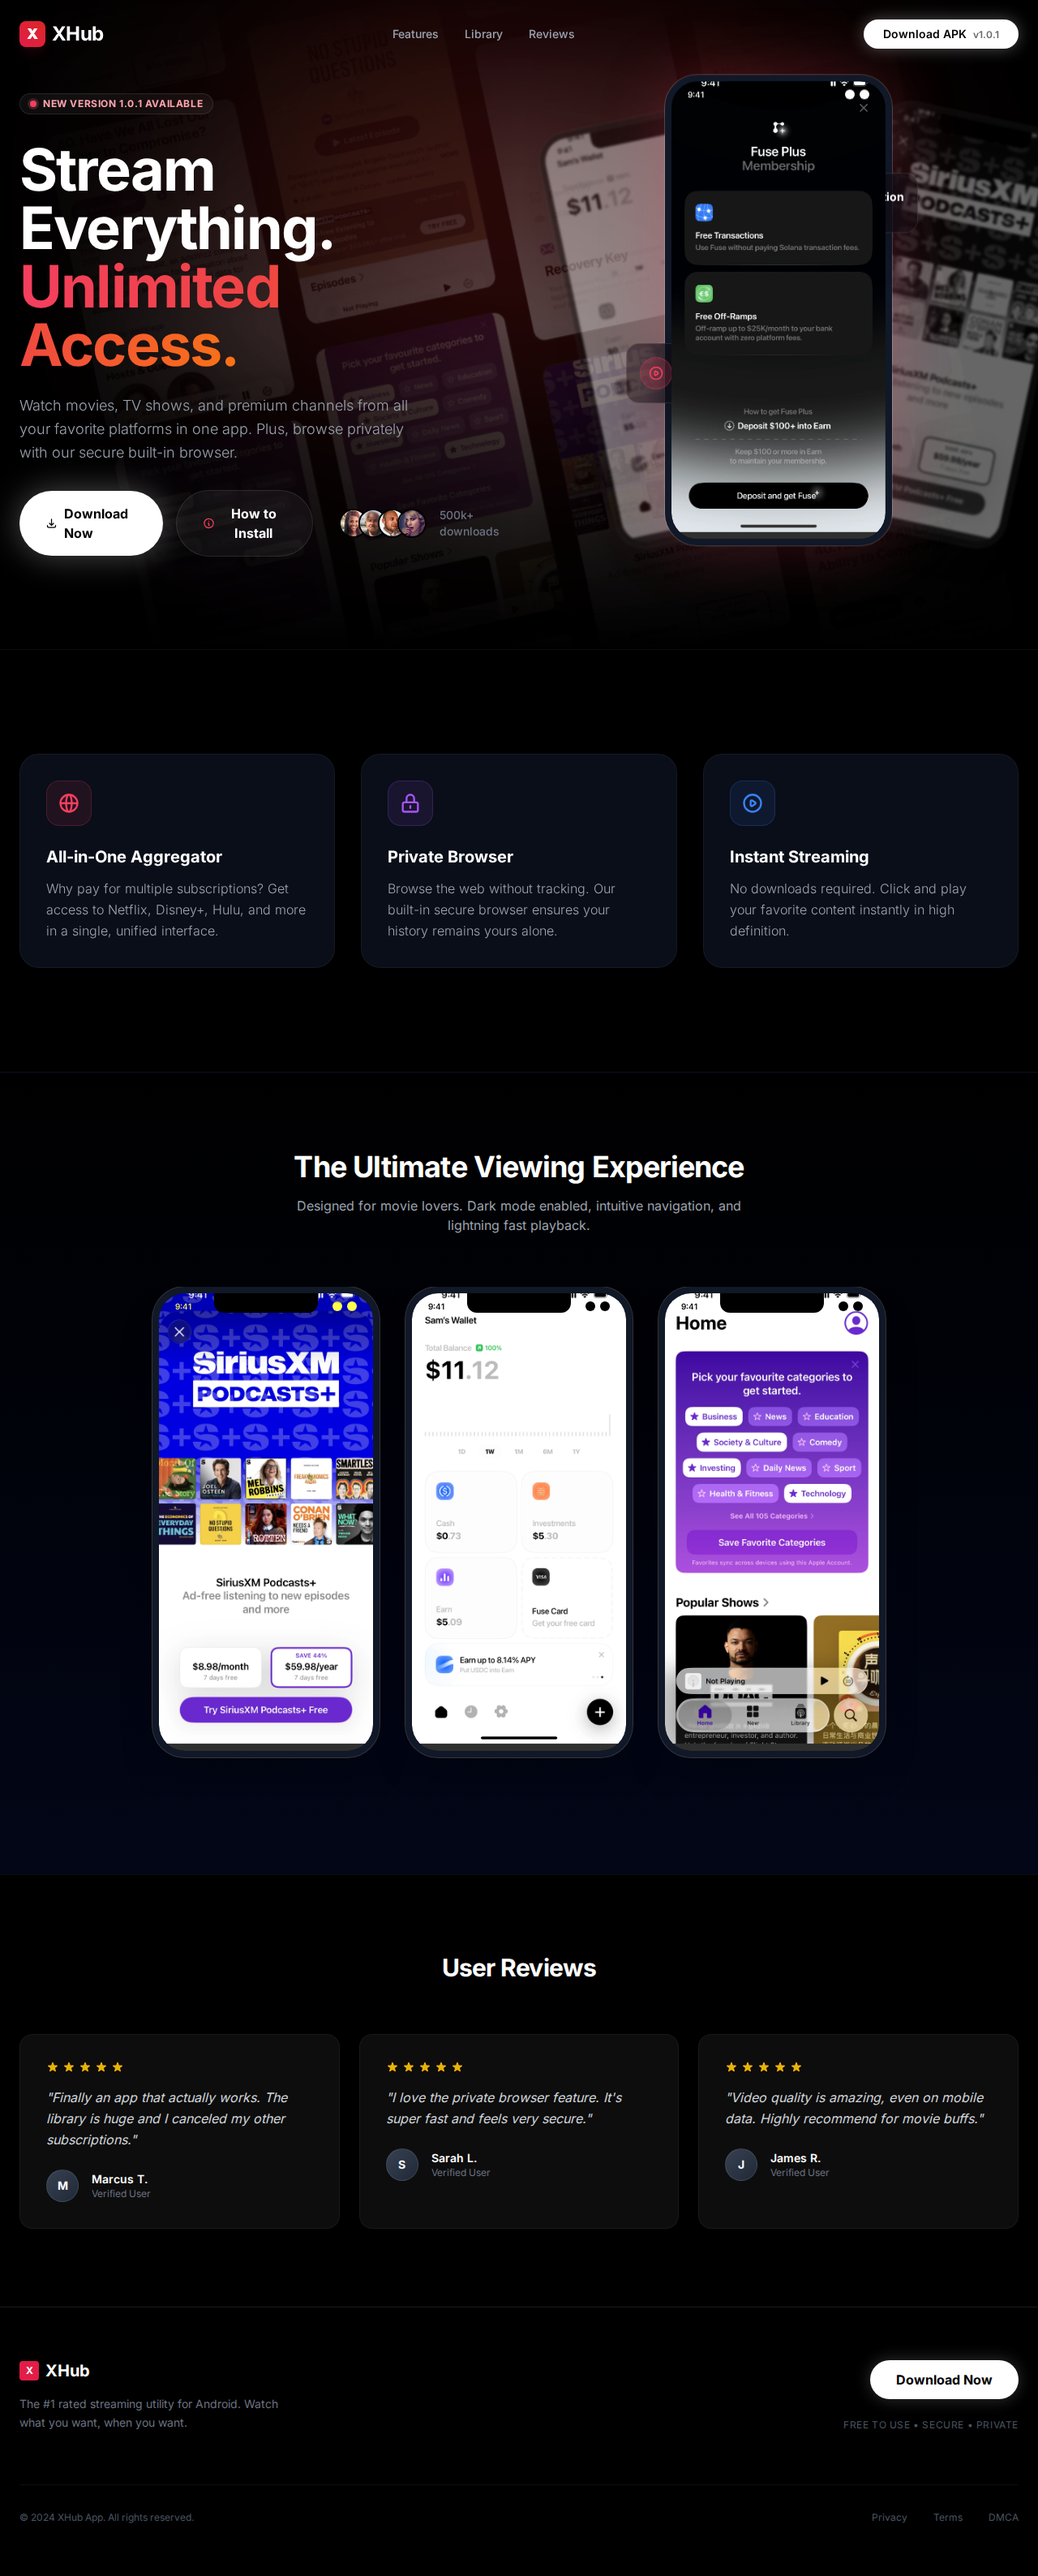
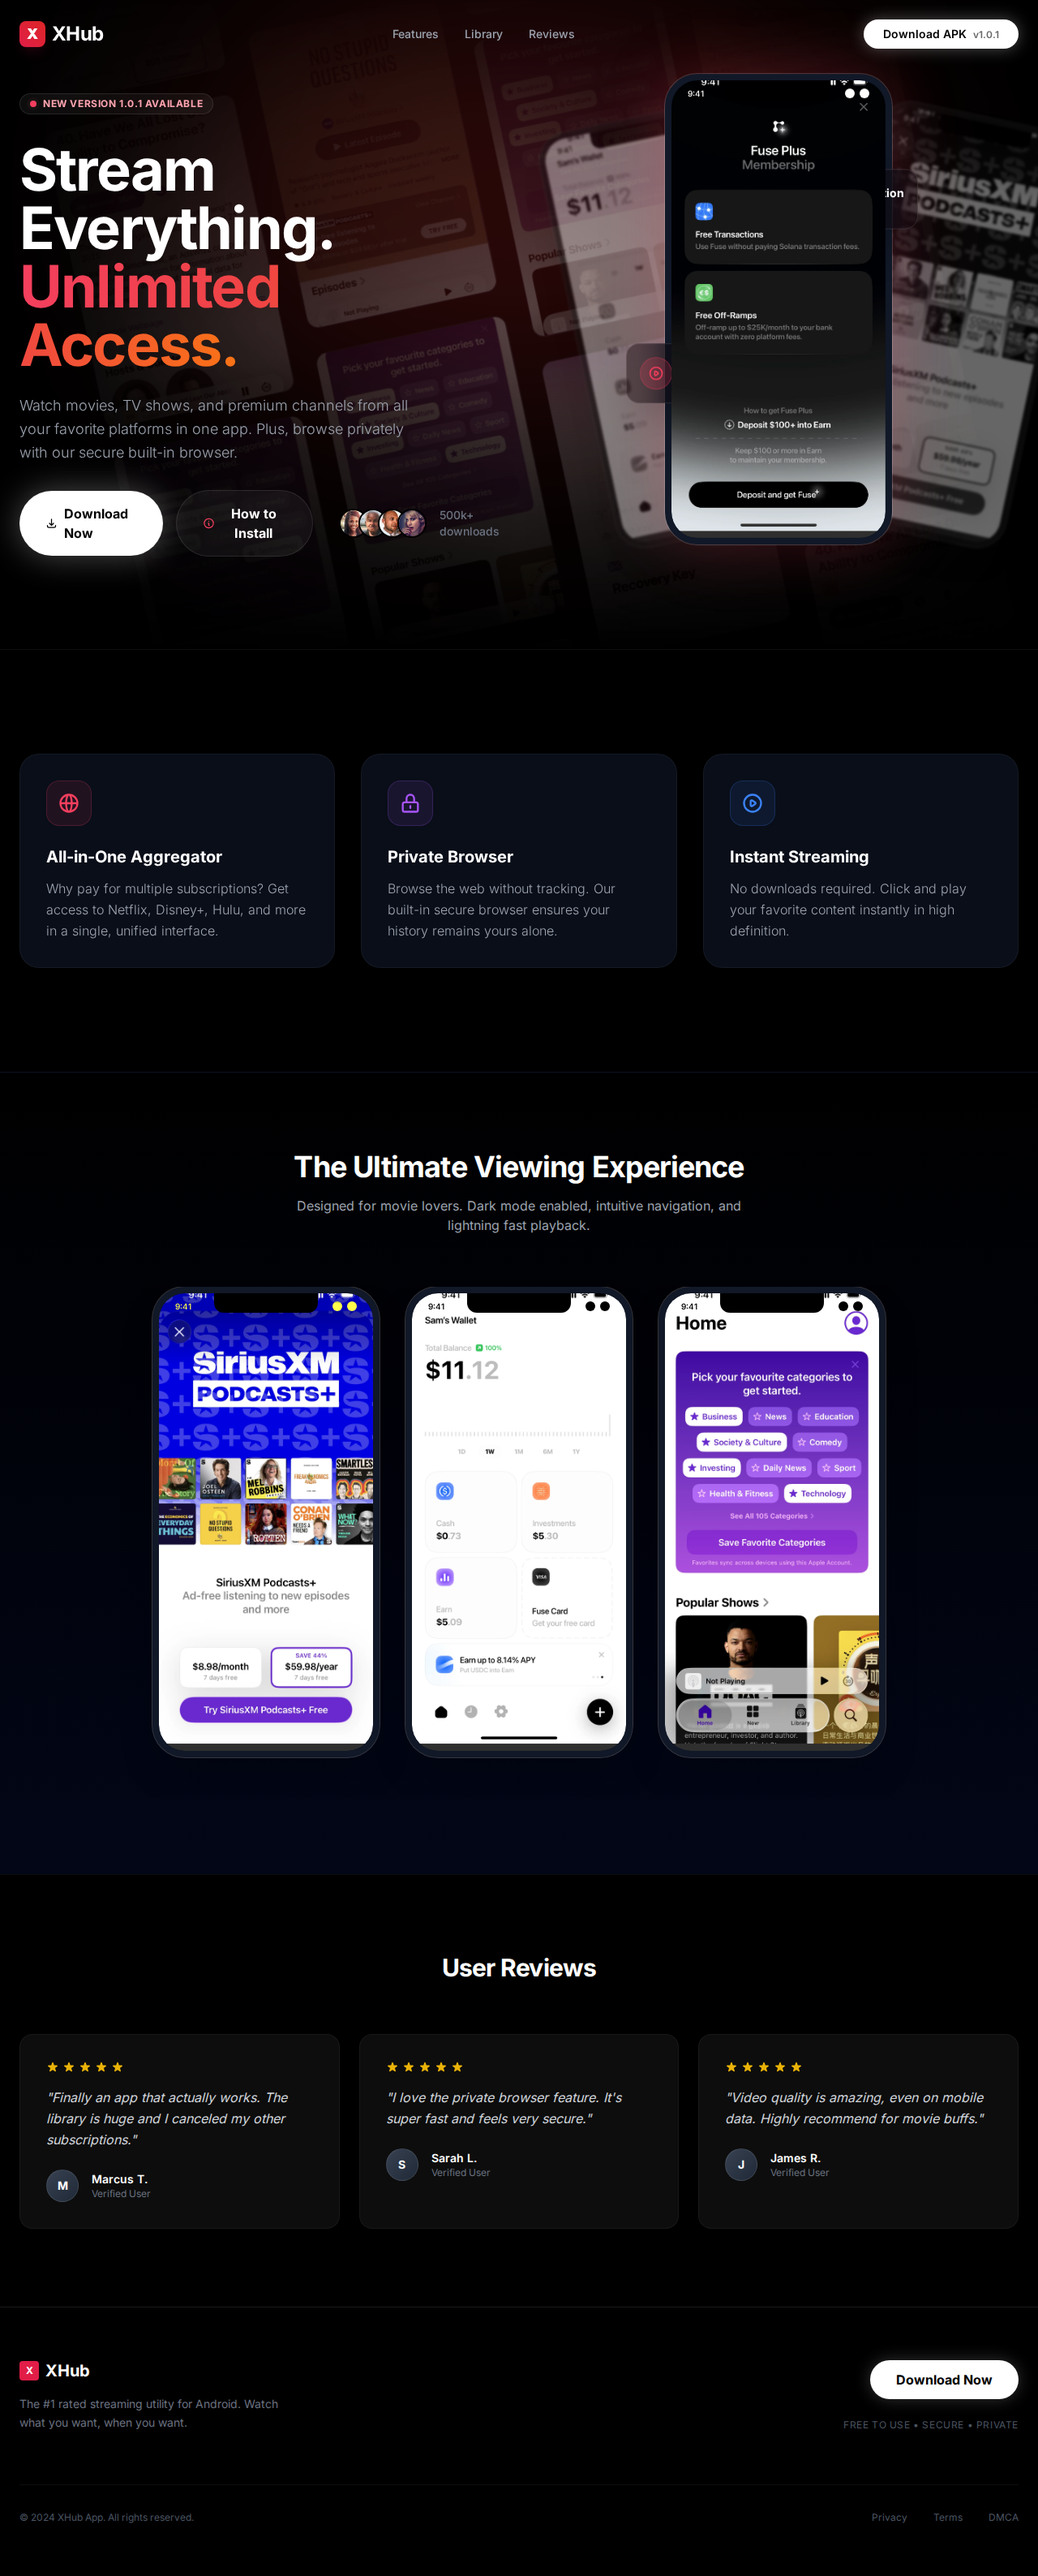
🎨 Palette: UI/UX & Performance Improvements
💡 What:
- Implemented global accessibility and UX enhancements.
- Optimized performance with React memoization.
- Added tactile micro-interactions (active states).
- Standardized focus-visible rings and navigation scroll offsets.

🎯 Why:
- To provide a more professional and responsive user experience.
- To prevent unnecessary re-renders in the flat component tree.
- To ensure compliance with modern accessibility and navigation standards.

♿ Accessibility:
- Added ARIA roles and labels across the application.
- Implemented keyboard trap and Escape key support for modals.
- Provided descriptive alt text for mockups and unique labels for duplicated CTAs.

Changed region(s): [[0.5, 0.0624, 0.5938, 0.1871], [0.6875, 0.1559, 0.8125, 0.2183]]

diff --git a/App.tsx b/App.tsx
@@ -83,7 +83,7 @@ const InfoIcon: React.FC<{ className?: string }> = ({ className }) => (
 
 // --- Styled Components & Mockups ---
 
-const PhoneMockup: React.FC<{ children?: React.ReactNode; className?: string; imageSrc?: string }> = ({ children, className = "", imageSrc }) => (
+const PhoneMockup: React.FC<{ children?: React.ReactNode; className?: string; imageSrc?: string; alt?: string }> = ({ children, className = "", imageSrc, alt = "App Screenshot" }) => (
   <div className={`relative mx-auto border-gray-900 bg-gray-900 border-[8px] rounded-[2.5rem] h-[580px] w-[280px] shadow-2xl flex flex-col overflow-hidden ring-1 ring-white/20 ${className}`}>
     {/* Hardware Buttons */}
     <div className="h-[32px] w-[3px] bg-gray-800 absolute -left-[10px] top-[72px] rounded-l-lg"></div>
@@ -108,7 +108,7 @@ const PhoneMockup: React.FC<{ children?: React.ReactNode; className?: string; im
       {imageSrc ? (
         <img
           src={imageSrc}
-          alt="App Screenshot"
+          alt={alt}
           className="absolute inset-0 w-full h-full object-cover z-10"
           loading="lazy"
         />
@@ -124,7 +124,7 @@ interface VersionInfo {
   releaseNotes: string;
 }
 
-const Header: React.FC<{ versionInfo: VersionInfo | null }> = ({ versionInfo }) => {
+const Header: React.FC<{ versionInfo: VersionInfo | null }> = React.memo(({ versionInfo }) => {
   const [scrolled, setScrolled] = useState(false);
 
   useEffect(() => {
@@ -143,22 +143,22 @@ const Header: React.FC<{ versionInfo: VersionInfo | null }> = ({ versionInfo }) 
           <h1 className="text-2xl font-bold text-white tracking-tight">XHub</h1>
         </div>
         <nav className="hidden md:flex space-x-8">
-          <a href="#features" className="text-gray-400 hover:text-white transition-colors text-sm font-medium">Features</a>
-          <a href="#gallery" className="text-gray-400 hover:text-white transition-colors text-sm font-medium">Library</a>
-          <a href="#testimonials" className="text-gray-400 hover:text-white transition-colors text-sm font-medium">Reviews</a>
+          <a href="#features" className="text-gray-400 hover:text-white transition-colors text-sm font-medium focus-visible:ring-2 focus-visible:ring-brand-500 rounded-lg outline-none">Features</a>
+          <a href="#gallery" className="text-gray-400 hover:text-white transition-colors text-sm font-medium focus-visible:ring-2 focus-visible:ring-brand-500 rounded-lg outline-none">Library</a>
+          <a href="#testimonials" className="text-gray-400 hover:text-white transition-colors text-sm font-medium focus-visible:ring-2 focus-visible:ring-brand-500 rounded-lg outline-none">Reviews</a>
         </nav>
         <a
           href="https://github.com/ibrahim-koraikir/xhub/releases/latest/download/xhub.apk"
           download
           aria-label={`Download XHub APK${versionInfo ? ` version ${versionInfo.versionName}` : ''}`}
-          className="bg-white text-black hover:bg-gray-100 font-semibold py-2 px-6 rounded-full transition-all duration-300 text-sm shadow-[0_0_20px_rgba(255,255,255,0.3)] hover:shadow-[0_0_30px_rgba(255,255,255,0.5)] transform hover:-translate-y-0.5"
+          className="bg-white text-black hover:bg-gray-100 font-semibold py-2 px-6 rounded-full transition-all duration-300 text-sm shadow-[0_0_20px_rgba(255,255,255,0.3)] hover:shadow-[0_0_30px_rgba(255,255,255,0.5)] transform hover:-translate-y-0.5 active:scale-95 focus-visible:ring-2 focus-visible:ring-brand-500 focus-visible:ring-offset-2 focus-visible:ring-offset-black outline-none"
         >
           Download APK {versionInfo && <span className="ml-1 opacity-60 text-xs">v{versionInfo.versionName}</span>}
         </a>
       </div>
     </header>
   );
-};
+});
 
 const ScrollingBackground: React.FC = React.memo(() => {
   // Duplicate for seamless loop
@@ -219,7 +219,7 @@ const ScrollingBackground: React.FC = React.memo(() => {
   );
 });
 
-const Hero: React.FC<{ onInstallClick: () => void; versionInfo: VersionInfo | null }> = ({ onInstallClick, versionInfo }) => {
+const Hero: React.FC<{ onInstallClick: () => void; versionInfo: VersionInfo | null }> = React.memo(({ onInstallClick, versionInfo }) => {
   return (
     <section className="relative min-h-screen w-full flex items-center justify-center overflow-hidden bg-black pt-20 lg:pt-0">
 
@@ -254,7 +254,7 @@ const Hero: React.FC<{ onInstallClick: () => void; versionInfo: VersionInfo | nu
               href="https://github.com/ibrahim-koraikir/xhub/releases/latest/download/xhub.apk"
               download
               aria-label="Download XHub APK now"
-              className="group relative px-8 py-4 bg-white text-black rounded-full font-bold shadow-[0_0_40px_rgba(255,255,255,0.3)] transition-all duration-300 hover:-translate-y-1 overflow-hidden"
+              className="group relative px-8 py-4 bg-white text-black rounded-full font-bold shadow-[0_0_40px_rgba(255,255,255,0.3)] transition-all duration-300 hover:-translate-y-1 overflow-hidden active:scale-95 focus-visible:ring-2 focus-visible:ring-brand-500 focus-visible:ring-offset-2 focus-visible:ring-offset-black outline-none"
             >
               <span className="relative z-10 flex items-center gap-2">
                 <DownloadIcon className="w-5 h-5" />
@@ -265,7 +265,7 @@ const Hero: React.FC<{ onInstallClick: () => void; versionInfo: VersionInfo | nu
             <button
               onClick={onInstallClick}
               aria-label="Open installation guide"
-              className="flex items-center gap-2 px-8 py-4 bg-white/5 border border-white/10 text-white rounded-full font-bold hover:bg-white/10 transition-all duration-300"
+              className="flex items-center gap-2 px-8 py-4 bg-white/5 border border-white/10 text-white rounded-full font-bold hover:bg-white/10 transition-all duration-300 active:scale-95 focus-visible:ring-2 focus-visible:ring-brand-500 focus-visible:ring-offset-2 focus-visible:ring-offset-black outline-none"
             >
               <InfoIcon className="w-5 h-5 text-brand-500" />
               How to Install
@@ -287,11 +287,11 @@ const Hero: React.FC<{ onInstallClick: () => void; versionInfo: VersionInfo | nu
         <div className="relative h-[600px] flex items-center justify-center lg:perspective-[2000px] group">
           {/* Background blurred cards */}
           <div className="absolute right-10 lg:right-0 top-1/2 -translate-y-1/2 translate-x-12 opacity-40 scale-90 blur-[2px] duration-700 transition-all group-hover:translate-x-20 group-hover:rotate-6 grayscale group-hover:grayscale-0">
-            <PhoneMockup className="rotate-12" imageSrc={APP_SCREENSHOTS.gallery1} />
+            <PhoneMockup className="rotate-12" imageSrc={APP_SCREENSHOTS.gallery1} alt="Library view mockup" />
           </div>
 
           <div className="absolute left-10 lg:left-20 top-1/2 -translate-y-1/2 -translate-x-12 opacity-40 scale-90 blur-[2px] duration-700 transition-all group-hover:-translate-x-20 group-hover:-rotate-6 grayscale group-hover:grayscale-0">
-            <PhoneMockup className="-rotate-12" imageSrc={APP_SCREENSHOTS.gallery2} />
+            <PhoneMockup className="-rotate-12" imageSrc={APP_SCREENSHOTS.gallery2} alt="Private browser mockup" />
           </div>
 
           {/* Main Card */}
@@ -314,7 +314,7 @@ const Hero: React.FC<{ onInstallClick: () => void; versionInfo: VersionInfo | nu
                 <div className="absolute top-0 left-1/2 -translate-x-1/2 w-32 h-6 bg-black rounded-b-xl z-20"></div>
                 <img
                   src={APP_SCREENSHOTS.hero}
-                  alt="App Hero Screenshot"
+                  alt="XHub main dashboard mockup"
                   className="absolute inset-0 w-full h-full object-cover z-10"
                   loading="eager"
                   fetchPriority="high"
@@ -348,9 +348,9 @@ const Hero: React.FC<{ onInstallClick: () => void; versionInfo: VersionInfo | nu
       </div>
     </section>
   );
-};
+});
 
-const Features: React.FC = () => (
+const Features: React.FC = React.memo(() => (
   <section id="features" className="py-32 bg-black relative border-t border-white/5 scroll-mt-24">
     <div className="container mx-auto px-6">
       <div className="grid lg:grid-cols-3 gap-8">
@@ -380,9 +380,9 @@ const Features: React.FC = () => (
       </div>
     </div>
   </section>
-);
+));
 
-const Gallery: React.FC = () => {
+const Gallery: React.FC = React.memo(() => {
   return (
     <section id="gallery" className="py-24 bg-gradient-to-b from-black to-slate-950 border-t border-white/5 overflow-hidden scroll-mt-24">
       <div className="container mx-auto px-6 mb-16 text-center">
@@ -393,20 +393,20 @@ const Gallery: React.FC = () => {
       {/* Scroll Container */}
       <div className="flex overflow-x-auto gap-8 px-6 pb-12 snap-x snap-mandatory no-scrollbar justify-start md:justify-center">
         <div className="snap-center shrink-0">
-          <PhoneMockup className="hover:translate-y-[-10px] transition-transform duration-300" imageSrc={APP_SCREENSHOTS.gallery1} />
+          <PhoneMockup className="hover:translate-y-[-10px] transition-transform duration-300" imageSrc={APP_SCREENSHOTS.gallery1} alt="Video player interface mockup" />
         </div>
         <div className="snap-center shrink-0">
-          <PhoneMockup className="hover:translate-y-[-10px] transition-transform duration-300" imageSrc={APP_SCREENSHOTS.gallery2} />
+          <PhoneMockup className="hover:translate-y-[-10px] transition-transform duration-300" imageSrc={APP_SCREENSHOTS.gallery2} alt="Secure browser interface mockup" />
         </div>
         <div className="snap-center shrink-0">
-          <PhoneMockup className="hover:translate-y-[-10px] transition-transform duration-300" imageSrc={APP_SCREENSHOTS.gallery3} />
+          <PhoneMockup className="hover:translate-y-[-10px] transition-transform duration-300" imageSrc={APP_SCREENSHOTS.gallery3} alt="App content discovery mockup" />
         </div>
       </div>
     </section>
   );
-};
+});
 
-const Testimonials: React.FC = () => (
+const Testimonials: React.FC = React.memo(() => (
   <section id="testimonials" className="py-24 bg-black relative z-10 border-t border-white/5 scroll-mt-24">
     <div className="container mx-auto px-6">
       <h2 className="text-3xl font-bold text-center text-white mb-16 tracking-tight">User Reviews</h2>
@@ -435,9 +435,9 @@ const Testimonials: React.FC = () => (
       </div>
     </div>
   </section>
-)
+));
 
-const Footer: React.FC = () => (
+const Footer: React.FC = React.memo(() => (
   <footer className="bg-black py-16 border-t border-white/10">
     <div className="container mx-auto px-6">
       <div className="flex flex-col md:flex-row justify-between items-center gap-8">
@@ -455,7 +455,7 @@ const Footer: React.FC = () => (
             href="https://github.com/ibrahim-koraikir/xhub/releases/latest/download/xhub.apk"
             download
             aria-label="Download XHub APK from footer"
-            className="bg-white text-black hover:bg-gray-100 font-bold py-3 px-8 rounded-full transition-all duration-300 shadow-[0_0_20px_rgba(255,255,255,0.2)] hover:shadow-[0_0_30px_rgba(255,255,255,0.4)]"
+            className="bg-white text-black hover:bg-gray-100 font-bold py-3 px-8 rounded-full transition-all duration-300 shadow-[0_0_20px_rgba(255,255,255,0.2)] hover:shadow-[0_0_30px_rgba(255,255,255,0.4)] active:scale-95 focus-visible:ring-2 focus-visible:ring-brand-500 focus-visible:ring-offset-2 focus-visible:ring-offset-black outline-none"
           >
             Download Now
           </a>
@@ -465,32 +465,51 @@ const Footer: React.FC = () => (
       <div className="border-t border-white/5 mt-16 pt-8 flex flex-col md:flex-row justify-between items-center text-xs text-gray-600">
         <p>&copy; 2024 XHub App. All rights reserved.</p>
         <div className="flex gap-8 mt-4 md:mt-0">
-          <a href="#" className="hover:text-white transition-colors">Privacy</a>
-          <a href="#" className="hover:text-white transition-colors">Terms</a>
-          <a href="#" className="hover:text-white transition-colors">DMCA</a>
+          <a href="#" className="hover:text-white transition-colors focus-visible:ring-2 focus-visible:ring-brand-500 rounded outline-none">Privacy</a>
+          <a href="#" className="hover:text-white transition-colors focus-visible:ring-2 focus-visible:ring-brand-500 rounded outline-none">Terms</a>
+          <a href="#" className="hover:text-white transition-colors focus-visible:ring-2 focus-visible:ring-brand-500 rounded outline-none">DMCA</a>
         </div>
       </div>
     </div>
   </footer>
-);
+));
 
-const InstallModal: React.FC<{ isOpen: boolean; onClose: () => void }> = ({ isOpen, onClose }) => {
+const InstallModal: React.FC<{ isOpen: boolean; onClose: () => void }> = React.memo(({ isOpen, onClose }) => {
+  useEffect(() => {
+    if (!isOpen) return;
+    const handleEscape = (e: KeyboardEvent) => {
+      if (e.key === 'Escape') onClose();
+    };
+    document.body.style.overflow = 'hidden';
+    window.addEventListener('keydown', handleEscape);
+    return () => {
+      document.body.style.overflow = '';
+      window.removeEventListener('keydown', handleEscape);
+    };
+  }, [isOpen, onClose]);
+
   if (!isOpen) return null;
 
   return (
-    <div className="fixed inset-0 z-[100] flex items-center justify-center p-4">
-      <div className="absolute inset-0 bg-black/80 backdrop-blur-md" onClick={onClose}></div>
+    <div
+      className="fixed inset-0 z-[100] flex items-center justify-center p-4"
+      role="dialog"
+      aria-modal="true"
+      aria-labelledby="modal-title"
+    >
+      <div className="absolute inset-0 bg-black/80 backdrop-blur-md" onClick={onClose} aria-hidden="true"></div>
       <div className="relative bg-slate-900 border border-white/10 w-full max-w-lg rounded-[2.5rem] overflow-hidden shadow-2xl animate-in fade-in zoom-in duration-300">
         <div className="p-8 md:p-12">
           <button
             onClick={onClose}
-            className="absolute top-6 right-6 w-10 h-10 rounded-full bg-white/5 flex items-center justify-center text-white hover:bg-white/10 transition-colors"
+            aria-label="Close modal"
+            className="absolute top-6 right-6 w-10 h-10 rounded-full bg-white/5 flex items-center justify-center text-white hover:bg-white/10 transition-colors focus-visible:ring-2 focus-visible:ring-brand-500 focus-visible:ring-offset-2 focus-visible:ring-offset-black outline-none active:scale-95"
           >
             <XIcon className="w-5 h-5" />
           </button>
 
           <div className="text-center mb-10">
-            <h2 className="text-3xl font-bold text-white mb-2">Install in 60 seconds</h2>
+            <h2 id="modal-title" className="text-3xl font-bold text-white mb-2">Install in 60 seconds</h2>
             <p className="text-gray-400">No Play Store needed. Three taps and you're in.</p>
           </div>
 
@@ -526,7 +545,8 @@ const InstallModal: React.FC<{ isOpen: boolean; onClose: () => void }> = ({ isOp
             <a
               href="https://github.com/ibrahim-koraikir/xhub/releases/latest/download/xhub.apk"
               download
-              className="block w-full py-4 bg-brand-500 hover:bg-brand-600 text-white text-center font-bold rounded-2xl transition-all shadow-lg shadow-brand-500/20"
+              aria-label="Download XHub APK from installation guide"
+              className="block w-full py-4 bg-brand-500 hover:bg-brand-600 text-white text-center font-bold rounded-2xl transition-all shadow-lg shadow-brand-500/20 active:scale-95 focus-visible:ring-2 focus-visible:ring-brand-500 focus-visible:ring-offset-2 focus-visible:ring-offset-black outline-none"
             >
               Get APK Now
             </a>
@@ -535,11 +555,14 @@ const InstallModal: React.FC<{ isOpen: boolean; onClose: () => void }> = ({ isOp
       </div>
     </div>
   );
-};
+});
 
 function App() {
   const [isInstallModalOpen, setIsInstallModalOpen] = useState(false);
   const [versionInfo, setVersionInfo] = useState<VersionInfo | null>(null);
+
+  const openModal = React.useCallback(() => setIsInstallModalOpen(true), []);
+  const closeModal = React.useCallback(() => setIsInstallModalOpen(false), []);
 
   useEffect(() => {
     fetch('/version.json')
@@ -552,13 +575,13 @@ function App() {
     <div className="min-h-screen bg-black text-white font-sans selection:bg-brand-500/30 selection:text-white">
       <Header versionInfo={versionInfo} />
       <main>
-        <Hero versionInfo={versionInfo} onInstallClick={() => setIsInstallModalOpen(true)} />
+        <Hero versionInfo={versionInfo} onInstallClick={openModal} />
         <Features />
         <Gallery />
         <Testimonials />
       </main>
       <Footer />
-      <InstallModal isOpen={isInstallModalOpen} onClose={() => setIsInstallModalOpen(false)} />
+      <InstallModal isOpen={isInstallModalOpen} onClose={closeModal} />
     </div>
   );
 }
